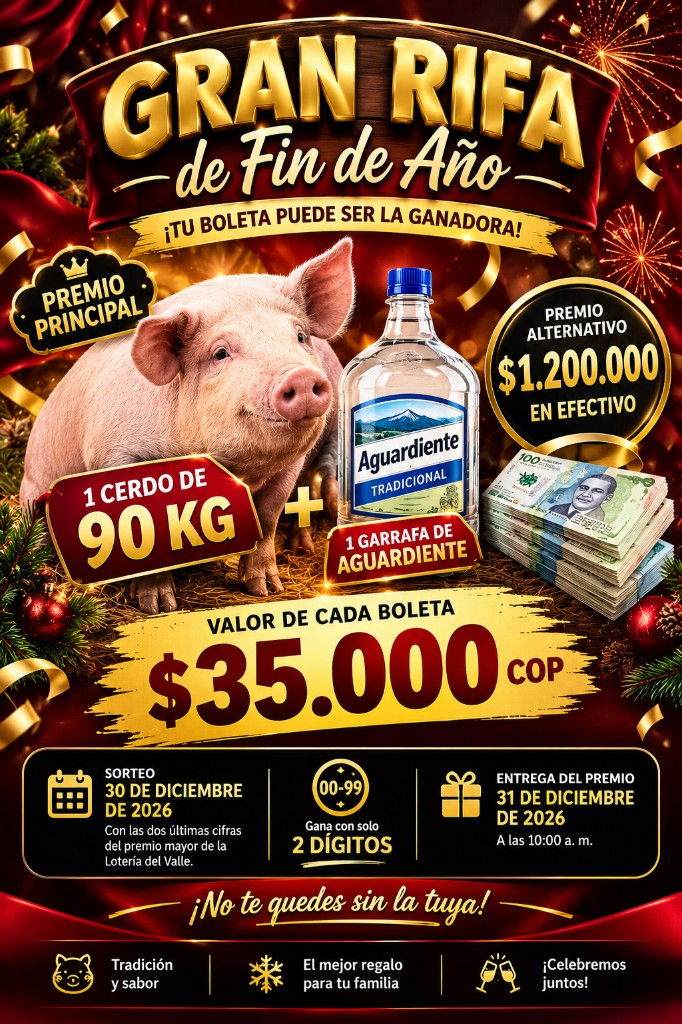
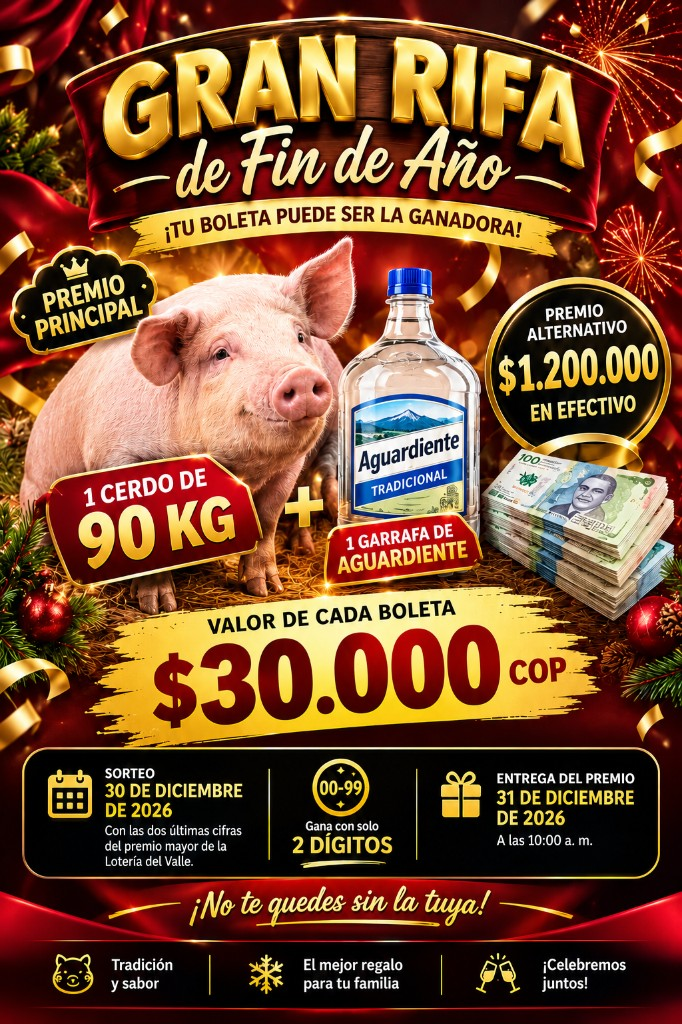
Update ticket price to $30,000 COP across application; adjust related documentation, tests, and assets accordingly.

diff --git a/frontend/src/assets/raffleAssets.js b/frontend/src/assets/raffleAssets.js
@@ -1,6 +1,6 @@
 import granRifaFlyer from './gran-rifa-flyer.jpg';
 
 export const FLYER_ALT =
-  'Gran Rifa de Fin de Año: cerdo de 90 kg, garrafa de aguardiente, alternativa $1.200.000 COP, boleta $35.000, sorteo 30 de diciembre de 2026';
+  'Gran Rifa de Fin de Año: cerdo de 90 kg, garrafa de aguardiente, alternativa $1.200.000 COP, boleta $30.000, sorteo 30 de diciembre de 2026';
 
 export const granRifaFlyerUrl = granRifaFlyer;

diff --git a/frontend/src/views/NewSale.jsx b/frontend/src/views/NewSale.jsx
@@ -7,7 +7,7 @@ import './FormPages.css';
 export default function NewSale() {
   const [params] = useSearchParams();
   const navigate = useNavigate();
-  const [ticketPrice, setTicketPrice] = useState(35000);
+  const [ticketPrice, setTicketPrice] = useState(30000);
   const [form, setForm] = useState({
     customer_full_name: '',
     customer_phone: '',

diff --git a/backend/app/tests/test_business_rules.py b/backend/app/tests/test_business_rules.py
@@ -18,10 +18,10 @@ def test_100_numbers_created_with_leading_zeros(client):
     assert all(len(c) == 2 for c in codes)
 
 
-def test_initial_ticket_price_35000(client):
+def test_initial_ticket_price_30000(client):
     r = client.get("/api/public/raffle")
     assert r.status_code == 200
-    assert r.json()["ticket_price"] == 35000
+    assert r.json()["ticket_price"] == 30000
     assert r.json()["draw_date"] == "2026-12-30"
 
 
@@ -41,7 +41,7 @@ def test_assignment_without_full_payment_stays_active(client, seller_token):
     sale = r.json()
     assert sale["commercial_status"] == "active"
     assert sale["payment_status"] == "partial"
-    assert sale["balance_due"] == 25000
+    assert sale["balance_due"] == 20000
     assert sale["number_code"] == "27"
 
     pub = client.get("/api/public/tickets/27")
@@ -161,11 +161,11 @@ def test_payments_sum_and_balance(client, seller_token):
     p2 = client.post(
         f"/api/sales/{sale_id}/payments",
         headers=auth(seller_token),
-        json={"amount": 15000, "payment_method": "transferencia"},
+        json={"amount": 10000, "payment_method": "transferencia"},
     )
     assert p2.status_code == 201
     sale = client.get(f"/api/sales/{sale_id}", headers=auth(seller_token)).json()
-    assert sale["total_paid"] == 25000
+    assert sale["total_paid"] == 20000
     assert sale["balance_due"] == 10000
     assert sale["payment_status"] == "partial"
 
@@ -196,7 +196,7 @@ def test_voided_payments_not_counted(client, seller_token, admin_token):
     assert void.status_code == 200
     sale = client.get(f"/api/sales/{sale_id}", headers=auth(seller_token)).json()
     assert sale["total_paid"] == 0
-    assert sale["balance_due"] == 35000
+    assert sale["balance_due"] == 30000
 
 
 def test_seller_cannot_admin_actions(client, seller_token):
@@ -245,7 +245,7 @@ def test_qr_token_validation(client, seller_token):
             "customer_full_name": "QR Cliente",
             "customer_phone": "3188889900",
             "number_code": "66",
-            "initial_payment": 35000,
+            "initial_payment": 30000,
         },
     )
     token = r.json()["public_token"]
@@ -310,7 +310,7 @@ def test_reports_match_db(client, seller_token, admin_token):
     assert stats["assigned"] >= 1
     assert stats["available"] == stats["total_numbers"] - stats["assigned"]
     assert stats["total_received"] >= 10000
-    assert stats["total_outstanding"] >= 25000
+    assert stats["total_outstanding"] >= 20000
 
 
 def test_draw_dates_remain_2026(client):

diff --git a/backend/app/db/seed.py b/backend/app/db/seed.py
@@ -10,7 +10,7 @@ from app.models.ticket import Ticket
 DEFAULT_RULES = """REGLAMENTO DE LA RIFA
 
 1. Se rifan 100 números del 00 al 99.
-2. Precio de cada boleta: $35.000 COP (precio vigente al momento de la asignación).
+2. Precio de cada boleta: $30.000 COP (precio vigente al momento de la asignación).
 3. Premio principal: un cerdo de 90 kilogramos y una garrafa de aguardiente.
 4. Premio alternativo: $1.200.000 COP en efectivo, sujeto a las condiciones oficiales.
 5. Fecha del sorteo: 30 de diciembre de 2026.
@@ -37,7 +37,7 @@ def ensure_raffle_and_tickets(db: Session) -> Raffle:
             description="Rifa digital de fin de año. 100 números del 00 al 99.",
             primary_prize="Un cerdo de 90 kilogramos y una garrafa de aguardiente",
             alternative_prize_amount=1_200_000,
-            ticket_price=35_000,
+            ticket_price=30_000,
             draw_date=date(2026, 12, 30),
             delivery_datetime=delivery.astimezone(timezone.utc),
             lottery_name="Lotería del Valle",
@@ -49,6 +49,12 @@ def ensure_raffle_and_tickets(db: Session) -> Raffle:
         )
         db.add(raffle)
         db.flush()
+    else:
+        # Sync official catalog price for new installations / local resets.
+        # Existing sales keep their historical sales.ticket_price.
+        if raffle.ticket_price != 30_000:
+            raffle.ticket_price = 30_000
+            raffle.public_rules = DEFAULT_RULES
 
     existing = {t.number_code for t in raffle.tickets}
     for i in range(100):

diff --git a/README.md b/README.md
@@ -25,7 +25,7 @@ Frontend y backend se comunican **solo** mediante la API REST documentada en `/d
 
 - Premio: cerdo de 90 kg + garrafa de aguardiente  
 - Alternativa: $1.200.000 COP  
-- Precio boleta: $35.000 COP  
+- Precio boleta: $30.000 COP  
 - Números: `00` … `99` (se conservan ceros a la izquierda)  
 - Ganador: dos últimas cifras del premio mayor de la Lotería del Valle  
 
